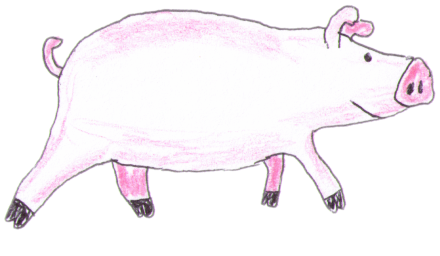
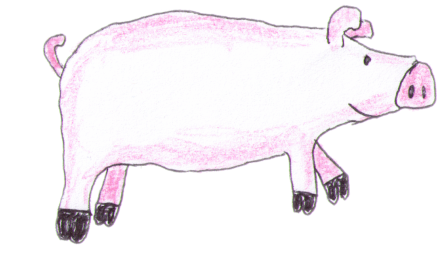
Added animations for pig walking.

Changed region(s): [[0.0, 0.0, 1.0, 0.9688]]

diff --git a/game.js b/game.js
@@ -111,6 +111,14 @@ class Entity {
   touched(e) {
   }
 
+  frame() {
+    return '';
+  }
+
+  overhang() {
+    return 0;
+  }
+
   repel(e) {
     if (!this.affects(e) || !e.affectedBy(this)) {
       return;
@@ -174,16 +182,16 @@ class Entity {
   }
 
   draw() {
-    var img = document.getElementById(this.shape);
+    var img = document.getElementById(this.shape + this.frame());
     //ctx.fillStyle = '#f00';
     //ctx.fillRect(this.x, this.y, this.w, this.h);
     if (this.facing() < 0) {
       ctx.save();
       ctx.scale(-1, 1);
-      ctx.drawImage(img, -this.x - this.w, this.y, this.w, this.h);
+      ctx.drawImage(img, -this.x - this.w, this.y + this.overhang(), this.w, this.h);
       ctx.restore();
     } else {
-      ctx.drawImage(img, this.x, this.y, this.w, this.h);
+      ctx.drawImage(img, this.x, this.y + this.overhang(), this.w, this.h);
     }
   }
 }
@@ -237,6 +245,7 @@ class CannonballEntity extends GravityEntity {
 class PigEntity extends GravityEntity {
   constructor(x, y, w, h, vx, vy, shape) {
     super(x, y, w, h, vx, vy, shape);
+    this.frameNum = 0;
     this.direction = 1;
     this.jump_limit = 0;
   }
@@ -253,8 +262,19 @@ class PigEntity extends GravityEntity {
     this.jump_limit = 0;
   }
 
+  frame() {
+    return Math.floor(this.frameNum / 4);
+  }
+
+  overhang() {
+    return 16;
+  }
+
   tick() {
     super.tick();
+    if (joystick[0] || joystick[1]) {
+      this.frameNum = (this.frameNum + 1) % 16;
+    }
     if (joystick[0]) {
       this.vx -= 0.5;
       this.direction = -1;

diff --git a/game.html b/game.html
@@ -8,8 +8,6 @@ body {
 </style>
 </head>
 <body>
-<img id="pig" src="https://www.purinamills.com/2.purinamills.com/media/Images/MasterBrand/Lifestages/swine-grow-finish.png?ext=.png" style="display: none">
-<!-- <img id="pig" src="pig.png" style="display: none"> -->
 <img id="end" src="images/end.png" style="display: none">
 <img id="lava" src="images/lava.png" style="display: none">
 <img id="block" src="images/block.png" style="display: none">
@@ -17,5 +15,9 @@ body {
 <img id="cannonball" src="images/cannonball.png" style="display: none">
 <img id="wolf" src="https://images.ctfassets.net/w00x6p5qkejz/63FwloUEZGiq4UogYUgq4W/f00848baa3a18217379545e289080d73/Wolf_Color_Small_File.png" style="display: none">
 <img id="back1" src="images/back1.png" style="display: none">
+<img id="pig0" src="images/pig0.png" style="display: none">
+<img id="pig1" src="images/pig1.png" style="display: none">
+<img id="pig2" src="images/pig2.png" style="display: none">
+<img id="pig3" src="images/pig3.png" style="display: none">
 <canvas id="canvas"></canvas>
 <script src="game.js"></script>
